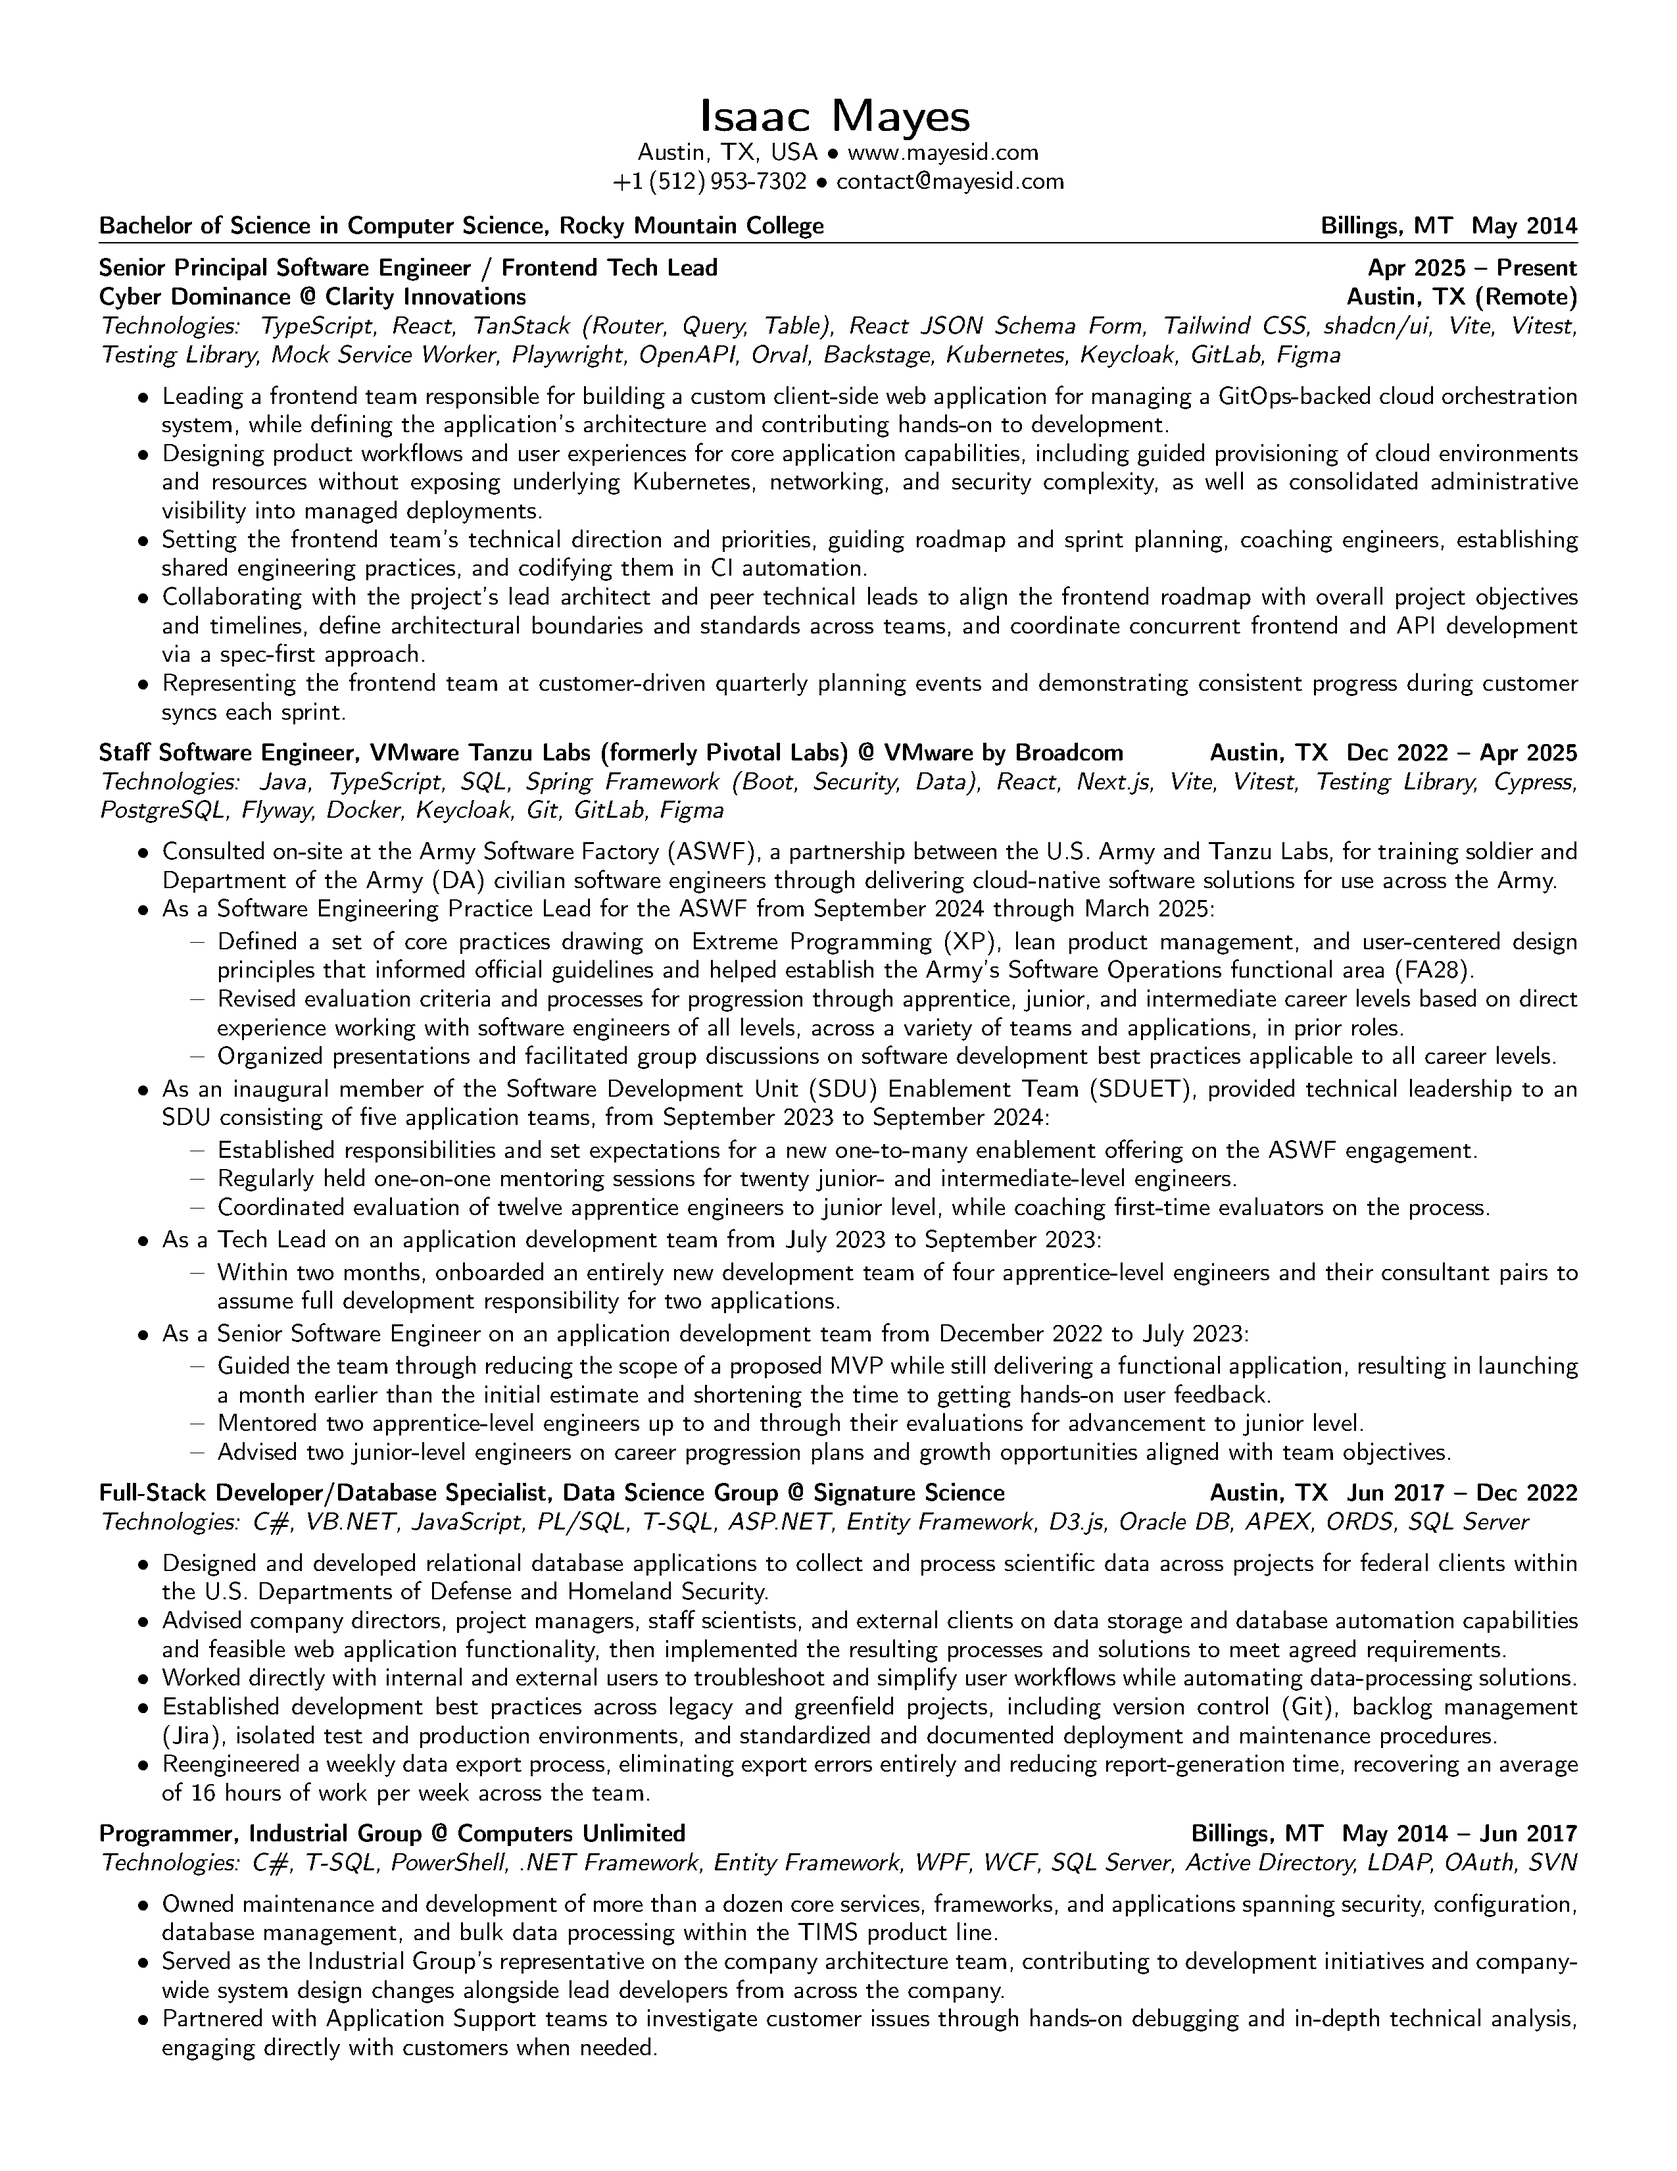
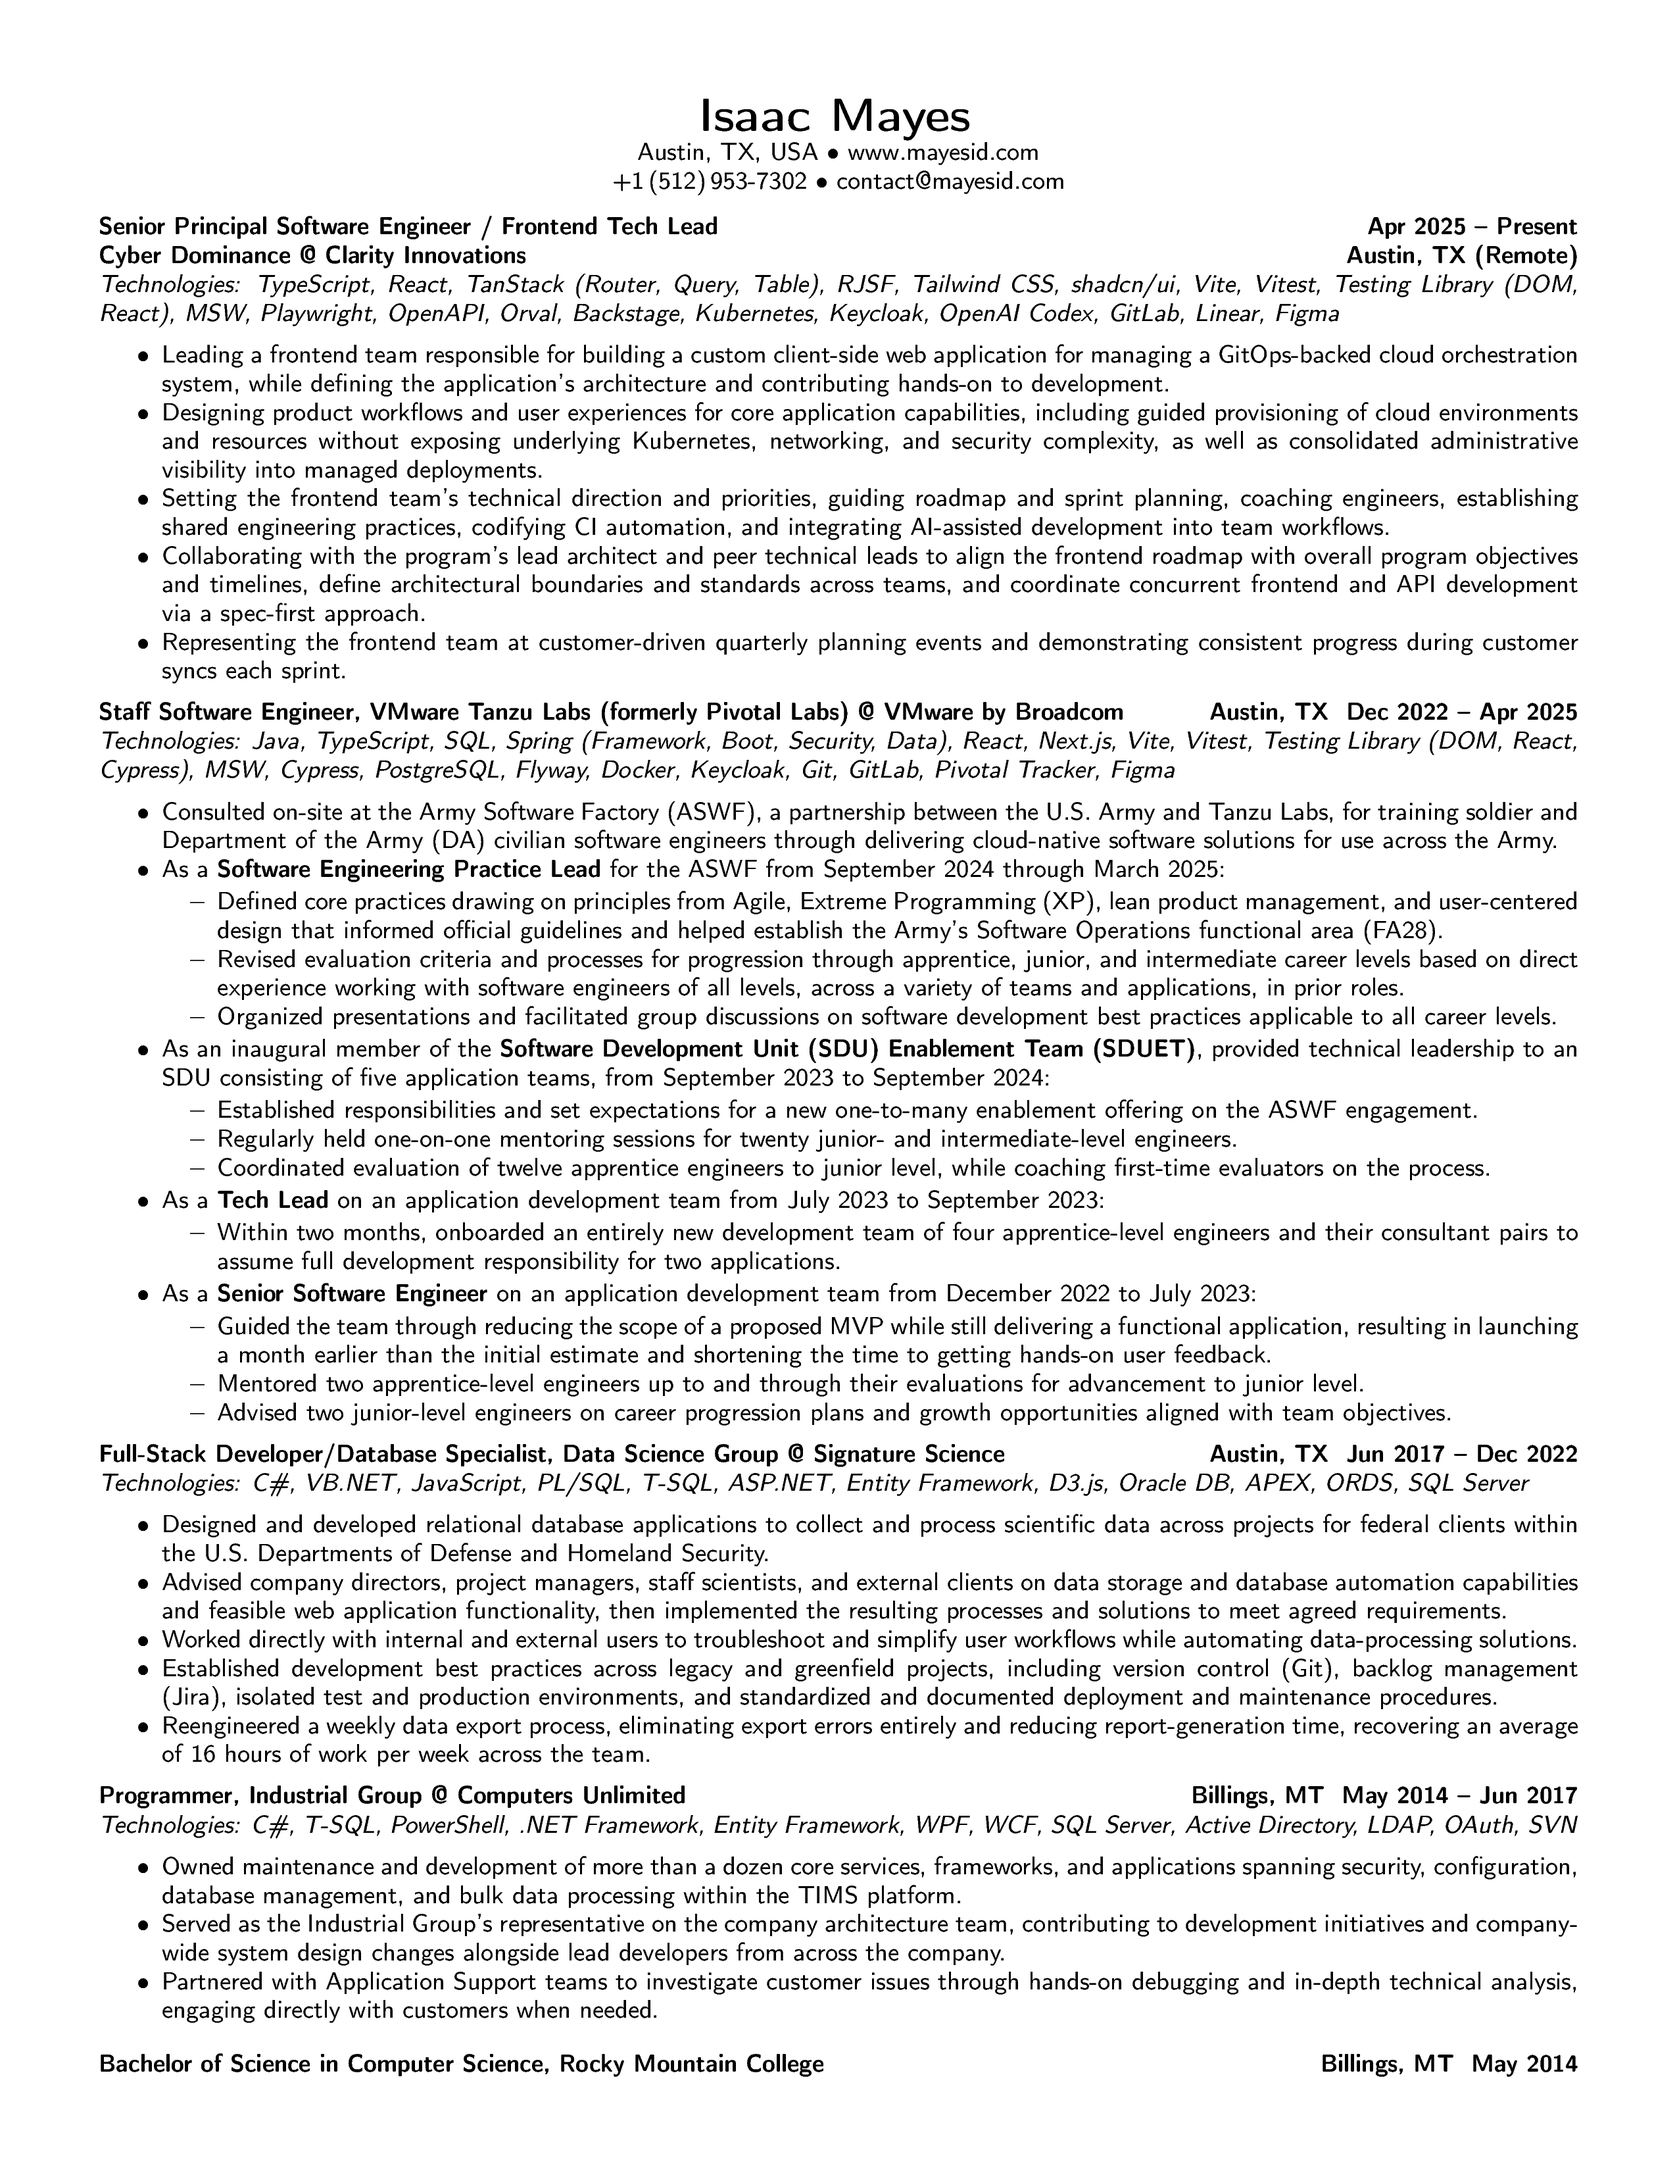
Restore standard Education order

Changed region(s): [[0.062, 0.0936, 0.9604, 0.9676]]

diff --git a/Resume_IsaacMayes.tex b/Resume_IsaacMayes.tex
@@ -85,14 +85,6 @@ breaklinks
 % \textbf{Line reserved for additional info}
 \end{center}
 
-\pdfbookmark[1]{Education}{PDF:Education}
-\pdfbookmark[2]{Bachelor of Science in Computer Science at Rocky Mountain College}{PDF:BSinCSRockyMountainCollege}
-\noindent\textbf{\headerrow
-	{Bachelor of Science in Computer Science, \href{https://rocky.edu/}{Rocky Mountain College}}
-	{Billings, MT \DatestampYM{2014}{05}}}
-
-\hrule
-\vspace{0.5em}
 \pdfbookmark[1]{Experience}{PDF:Experience}
 
 \pdfbookmark[2]{Senior Principal Software Engineer at Clarity Innovations}{PDF:SeniorPrincipalSoftwareEngineerClarityInnovations}
@@ -162,5 +154,12 @@ breaklinks
 		\item Served as the Industrial Group's representative on the company architecture team, contributing to development initiatives and company-wide system design changes alongside lead developers from across the company.
 		\item Partnered with Application Support teams to investigate customer issues through hands-on debugging and in-depth technical analysis, engaging directly with customers when needed.
 	\end{itemize*}
+
+\vspace{0.5em}
+\pdfbookmark[1]{Education}{PDF:Education}
+\pdfbookmark[2]{Bachelor of Science in Computer Science at Rocky Mountain College}{PDF:BSinCSRockyMountainCollege}
+\noindent\textbf{\headerrow
+	{Bachelor of Science in Computer Science, \href{https://rocky.edu/}{Rocky Mountain College}}
+	{Billings, MT \DatestampYM{2014}{05}}}
 
 \end{document}
